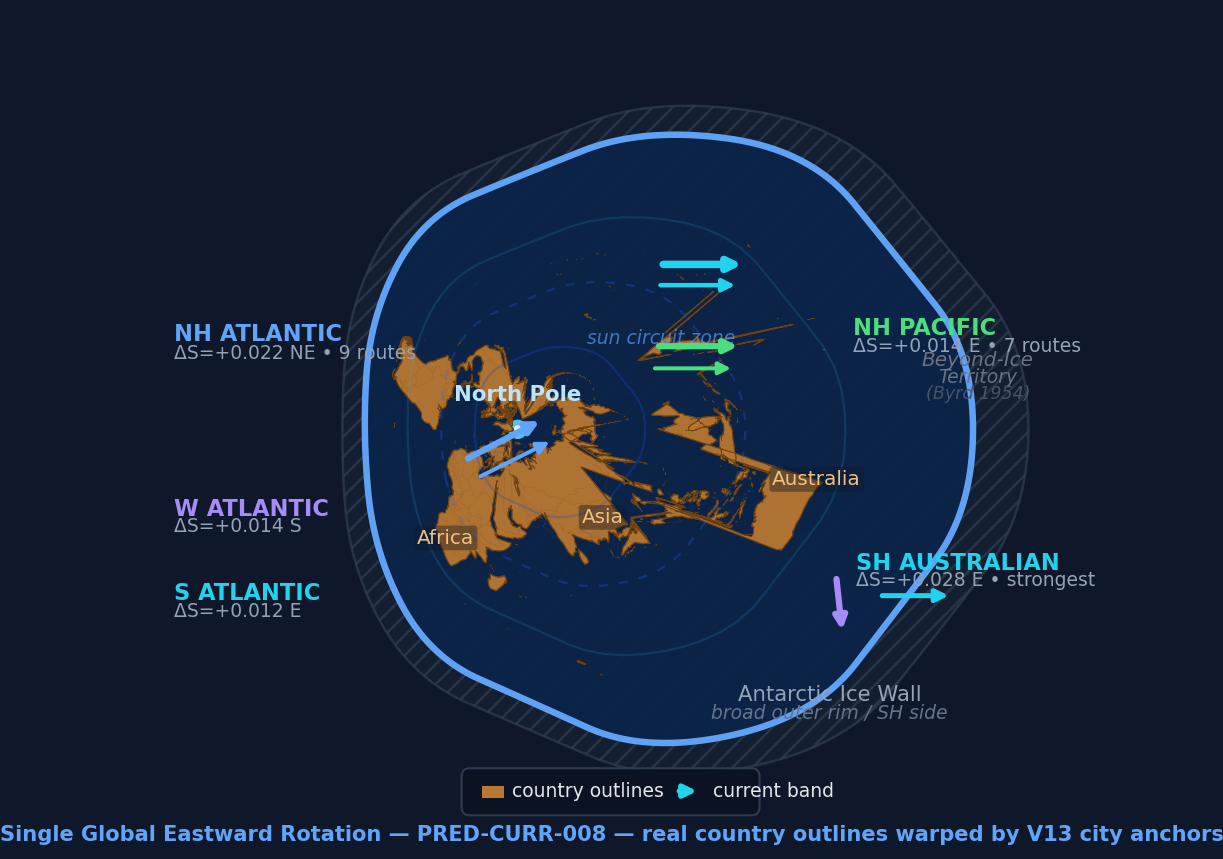
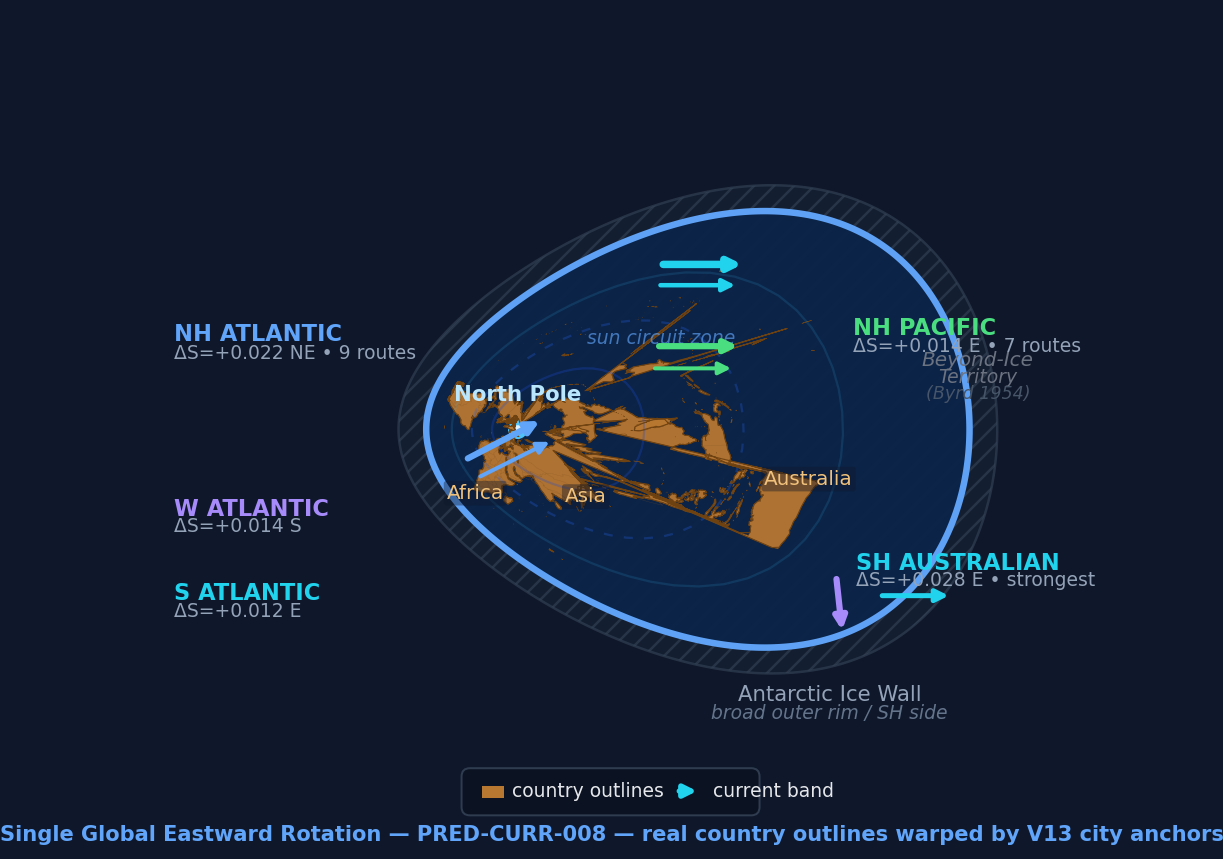
Replace concave homepage wall with smooth egg curve

diff --git a/docs/index.html b/docs/index.html
@@ -415,7 +415,7 @@
         PNG should be regenerated, rather than manually editing homepage shapes.
     -->
     <img
-      src="assets/homepage-warped-map.png?v=20260330a"
+      src="assets/homepage-warped-map.png?v=20260330b"
       alt="Top-down ECM homepage map with real country outlines warped by V13 city anchors, ice wall boundary, and aetheric current arrows"
       style="width:min(100%,700px);height:auto;display:block;margin:0 auto;border-radius:12px;"
     >

diff --git a/scripts/generate_v13_warped_map.py b/scripts/generate_v13_warped_map.py
@@ -27,52 +27,17 @@ OUTPUT_PATH.parent.mkdir(parents=True, exist_ok=True)
 NP_X = 282.0
 NP_Y = 310.0
 
-# The homepage keeps the site's established "horizontal ovoid" silhouette.
-# This is a display frame, not a new derivation. The control points below are
-# used only to shape the final rendered map on the homepage.
-MAIN_BOUNDARY_CONTROL = np.array(
-    [
-        (170, 310),
-        (176, 228),
-        (214, 156),
-        (286, 126),
-        (372, 92),
-        (493, 108),
-        (556, 186),
-        (611, 255),
-        (610, 369),
-        (556, 440),
-        (496, 518),
-        (374, 544),
-        (290, 506),
-        (218, 474),
-        (178, 398),
-        (170, 310),
-    ],
-    dtype=float,
-)
+# The homepage keeps a horizontal-egg silhouette, but the previous control-point
+# version produced dents/concavity on the broad side. Define the wall with one
+# smooth convex egg curve instead of hand-tuned vertices.
+MAIN_BOUNDARY_CENTER_X = 412.0
+MAIN_BOUNDARY_CENTER_Y = 310.0
+MAIN_BOUNDARY_A = 196.0
+MAIN_BOUNDARY_B = 152.0
+MAIN_BOUNDARY_SKEW = 0.28
 
-BEYOND_BOUNDARY_CONTROL = np.array(
-    [
-        (154, 310),
-        (160, 220),
-        (202, 142),
-        (284, 108),
-        (380, 70),
-        (518, 90),
-        (590, 176),
-        (651, 252),
-        (650, 372),
-        (589, 452),
-        (519, 539),
-        (384, 567),
-        (286, 525),
-        (206, 490),
-        (160, 408),
-        (154, 310),
-    ],
-    dtype=float,
-)
+BEYOND_BOUNDARY_A = 216.0
+BEYOND_BOUNDARY_B = 170.0
 
 # The source map starts from a standard north-pole azimuthal-equidistant style
 # disc. We then warp that disc into the homepage ovoid with V13 city anchors.
@@ -93,24 +58,32 @@ LABEL_POINTS = [
 ]
 
 
-def smooth_closed_curve(control_points: np.ndarray, iterations: int = 5) -> np.ndarray:
-    # The cubic spline version introduced fake "waves" by overshooting between
-    # sparse control points. Chaikin corner-cutting stays inside the intended
-    # envelope and gives a smooth closed curve without inventing new lobes.
-    curve = np.asarray(control_points[:-1], dtype=float)
-    for _ in range(iterations):
-        refined = []
-        for idx in range(len(curve)):
-            p0 = curve[idx]
-            p1 = curve[(idx + 1) % len(curve)]
-            refined.append(0.75 * p0 + 0.25 * p1)
-            refined.append(0.25 * p0 + 0.75 * p1)
-        curve = np.asarray(refined, dtype=float)
+def build_horizontal_egg(center_x: float, center_y: float, a: float, b: float, skew: float, samples: int = 720) -> np.ndarray:
+    # Parametric egg:
+    # x uses a simple horizontal radius, while y widens on the broad side
+    # through the (1 + skew*cos(t)) factor. For 0 < skew < 1 this stays smooth
+    # and avoids the fake concavity introduced by earlier hand-shaped walls.
+    t = np.linspace(0.0, 2.0 * math.pi, samples, endpoint=False)
+    x = center_x + a * np.cos(t)
+    y = center_y + b * np.sin(t) * (1.0 + skew * np.cos(t))
+    curve = np.column_stack([x, y])
     return np.vstack([curve, curve[0]])
 
 
-MAIN_BOUNDARY = smooth_closed_curve(MAIN_BOUNDARY_CONTROL)
-BEYOND_BOUNDARY = smooth_closed_curve(BEYOND_BOUNDARY_CONTROL)
+MAIN_BOUNDARY = build_horizontal_egg(
+    MAIN_BOUNDARY_CENTER_X,
+    MAIN_BOUNDARY_CENTER_Y,
+    MAIN_BOUNDARY_A,
+    MAIN_BOUNDARY_B,
+    MAIN_BOUNDARY_SKEW,
+)
+BEYOND_BOUNDARY = build_horizontal_egg(
+    MAIN_BOUNDARY_CENTER_X,
+    MAIN_BOUNDARY_CENTER_Y,
+    BEYOND_BOUNDARY_A,
+    BEYOND_BOUNDARY_B,
+    MAIN_BOUNDARY_SKEW,
+)
 
 
 @dataclass(frozen=True)
